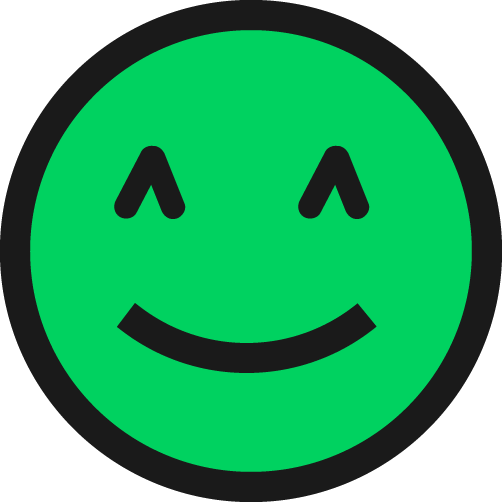
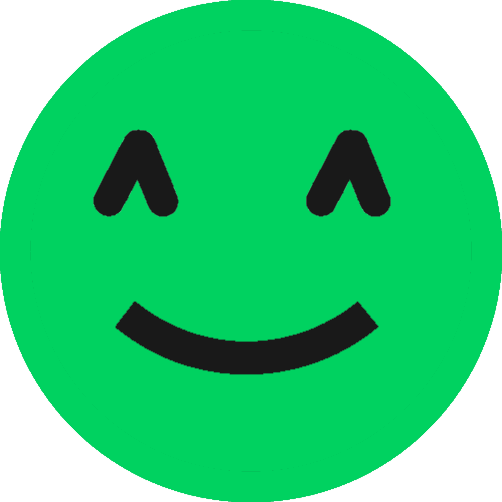
iconit muutettu ja tyylittelyä muutenki

diff --git a/plantiful-app/src/app/mood-entry/mood-entry.component.html b/plantiful-app/src/app/mood-entry/mood-entry.component.html
@@ -6,8 +6,8 @@
         <RadListView [items]="moodItems" multipleSelection="false" selectionBehavior="Press" (itemSelected)="moodItemSelected($event)"
         (itemDeselected)="moodItemDeselected($event)" rowHeight="60">
             <ng-template tkListItemTemplate let-item="item">
-                    <GridLayout id="moodRadGrid" height="60" width="60" orientation="horizontal" [item]="item" rows="auto auto" class="select-btn" [backgroundColor]="item.selected ? 'black' : 'red'">
-                        <Image src="~/app/images/mood-icons/{{ item.imageURL }}" height="80%" width="80%"></Image>
+                    <GridLayout id="moodRadGrid" height="60" width="60" orientation="horizontal" [item]="item" class="select-btn"   verticalAlignment="center" horizontalAlignment="center" stretch="aspectFit">
+                        <Image src="~/app/images/mood-icons/{{ item.imageURL }}" height="80%" width="80%"  class="batan" opacity="{{ item.selected ? '1' : '0.5'}}"     verticalAlignment="center" horizontalAlignment="center" stretch="aspectFit"></Image>
                     </GridLayout>
             </ng-template>
             <ListViewGridLayout tkListViewLayout scrollDirection="Vertical" spanCount="5"></ListViewGridLayout>
@@ -17,8 +17,8 @@
         <RadListView [items]="activityItems" multipleSelection="true" selectionBehavior="Press" (itemSelected)="activityItemSelected($event)"
             (itemDeselected)="activityItemDeselected($event)" rowHeight="60" height="40%">
             <ng-template tkListItemTemplate let-item="item">
-                    <GridLayout id="activityRadGrid" height="60" width="60" orientation="horizontal" [item]="item" rows="auto auto" class="select-btn" [backgroundColor]="item.selected ? 'black' : 'red'">
-                        <Image src="~/app/images/activity-icons/{{ item.imageURL }}" height="80%" width="80%"></Image>
+                    <GridLayout id="activityRadGrid" height="60" width="60" orientation="horizontal" [item]="item" class="select-btn"   verticalAlignment="center" horizontalAlignment="center" stretch="aspectFit">
+                        <Image src="~/app/images/activity-icons/{{ item.imageURL }}" height="75%" width="75%" opacity="{{ item.selected ? '1' : '0.5'}}"  verticalAlignment="center" horizontalAlignment="center" stretch="aspectFit"></Image>
                     </GridLayout>
             </ng-template>
             <ListViewGridLayout tkListViewLayout scrollDirection="Vertical" spanCount="5"></ListViewGridLayout>
